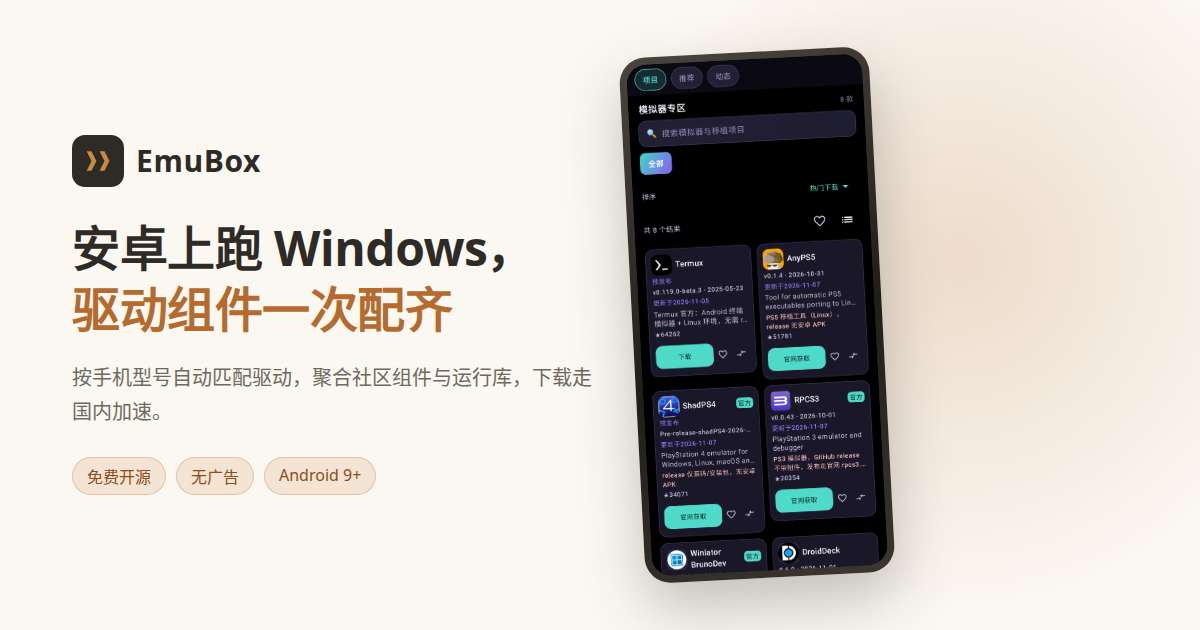
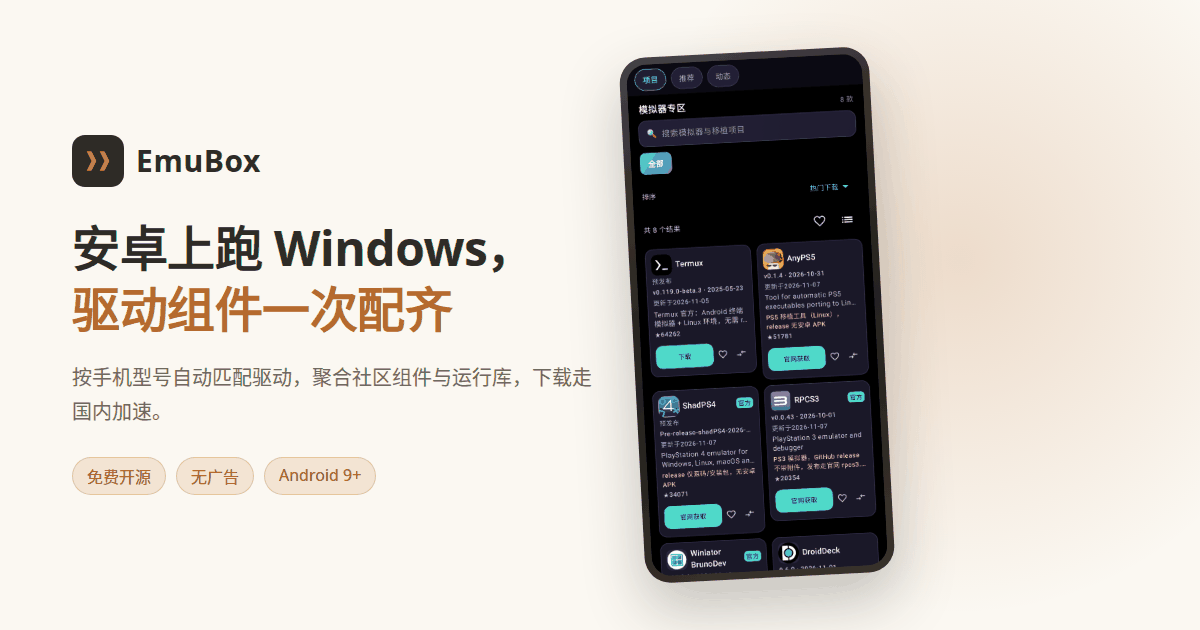
门面图片瘦身：截图转 256 色 PNG，首屏图优先加载

diff --git a/docs/index.html b/docs/index.html
@@ -346,7 +346,7 @@
 
     <div class="phone-stage">
       <div class="phone">
-        <img src="assets/screens/02-dark.png" alt="EmuBox 模拟器库：按热度排序的社区模拟器项目卡片" width="1233" height="2673" loading="eager">
+        <img src="assets/screens/02-dark.png" alt="EmuBox 模拟器库：按热度排序的社区模拟器项目卡片" width="1233" height="2673" fetchpriority="high" decoding="async">
       </div>
     </div>
   </div>
@@ -384,15 +384,15 @@
     </div>
     <div class="shots">
       <figure class="shot">
-        <div class="frame"><img src="assets/screens/01-library.png" alt="模拟器库：社区项目聚合，含更新与下载量" loading="lazy"></div>
+        <div class="frame"><img src="assets/screens/01-library.png" alt="模拟器库：社区项目聚合，含更新与下载量" loading="lazy" decoding="async"></div>
         <figcaption>模拟器库 · 亮色</figcaption>
       </figure>
       <figure class="shot">
-        <div class="frame"><img src="assets/screens/03-runtime.png" alt="运行库专区：VC++、.NET、字体等依赖，附中文用途" loading="lazy"></div>
+        <div class="frame"><img src="assets/screens/03-runtime.png" alt="运行库专区：VC++、.NET、字体等依赖，附中文用途" loading="lazy" decoding="async"></div>
         <figcaption>运行库专区</figcaption>
       </figure>
       <figure class="shot">
-        <div class="frame"><img src="assets/screens/04-settings.png" alt="设置：语言、主题、界面缩放、配色" loading="lazy"></div>
+        <div class="frame"><img src="assets/screens/04-settings.png" alt="设置：语言、主题、界面缩放、配色" loading="lazy" decoding="async"></div>
         <figcaption>设置</figcaption>
       </figure>
     </div>
